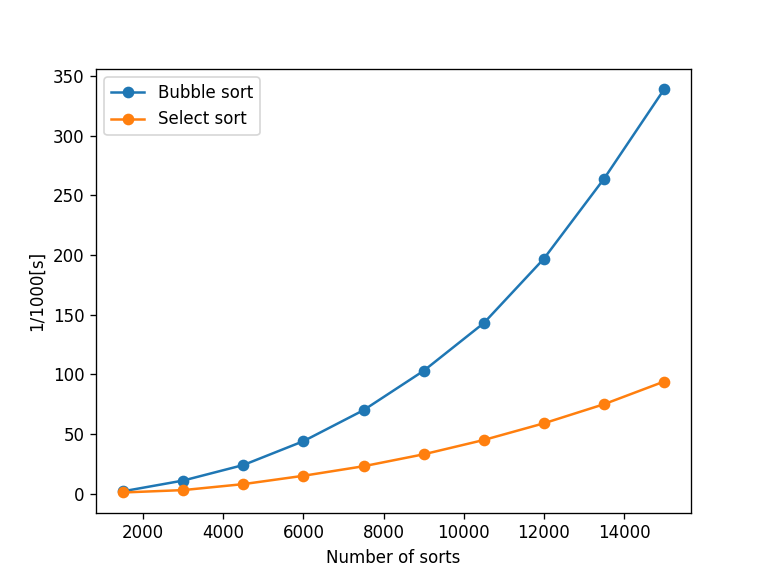
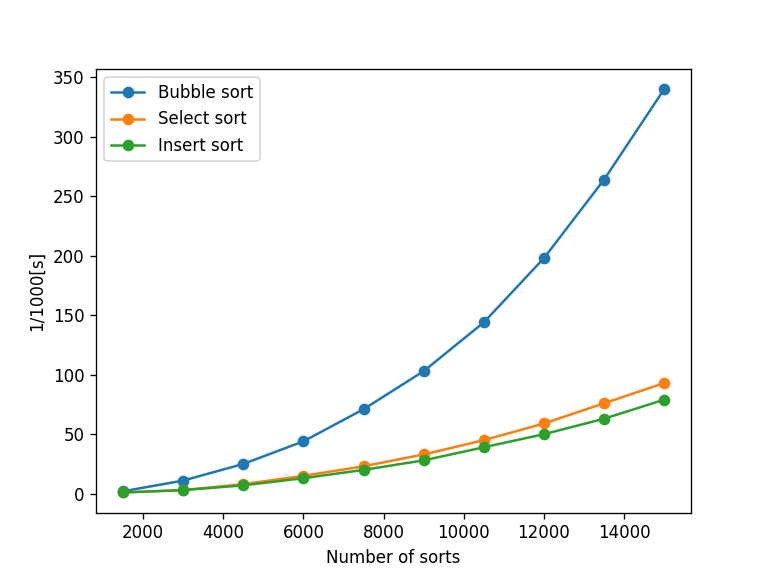
update all

diff --git a/09/4-5insert.c b/09/4-5insert.c
@@ -19,12 +19,12 @@ int main(void){
     /*--- 宣言 ---*/
     int* data;
     int size = SIZE;
-    int i, j, tmp, seed, min, k;
-    unsigned long int average;
+    int i, j, tmp, seed;
+    unsigned long int result[10][10];
 
     /*--- CSV ---*/
     FILE *fp;
-    fp = fopen("./s_result.csv", "w");
+    fp = fopen("./i_result.csv", "w");
     if(fp == NULL) {
         printf( "File open ERROR Deesu" );
         return -1;
@@ -51,25 +51,26 @@ int main(void){
 
             start = clock(); /* 処理前の時間を取得 */
 
-            /* select sort */
-            for(i=0; i < (size-1); i++) {
-                min = data[i];
-                k = i;
-                for(j = (i+1); j < size; j++) {
-                    if(min > data[j]) {
-                        min = data[j];
-                        k = j;
+            /* insert sort */
+            for( i = 1; i < size; i++ ) {
+                tmp = data[i];
+
+                for( j = (i-1); j >= 0; j-- ) {
+
+                    if( data[j] > tmp ) {
+                        data[j+1] = data[j];
+                    }else{
+                        break;
                     }
                 }
-                tmp = data[i];
-                data[i] = data[k];
-                data[k] = tmp;
+
+                data[j+1] = tmp;
             }
 
             end = clock(); /* 処理後の時間を取得 */
             elapsed = end - start; /* 実行時間算出 */
             printf("ELAPSED TIME %d: %lu\n", (loop+1), elapsed);
-            
+
             result[loop][all] = elapsed;
             free(data); /*--- 配列けす ---*/
         }
@@ -79,10 +80,9 @@ int main(void){
         if(all < 10) {
             fprintf(fp, ",");
         }
-
         size += SIZE;
     }
-    
+
     /*--- Push to CSV ---*/
     for(int i = 0; i < 10; i++) {
         fprintf(fp, "\n%d,",(i+1));
@@ -93,7 +93,6 @@ int main(void){
             }
         }
     }
-
     fclose(fp);
     return 0; 
 }

diff --git a/09/graph.py b/09/graph.py
@@ -7,9 +7,11 @@ fig = plt.figure(dpi=120)
 # open file #
 bubble = pd.read_csv('b_result.csv', encoding = 'UTF-8')
 select = pd.read_csv('s_result.csv', encoding = 'UTF-8')
+insert = pd.read_csv('I_result.csv', encoding = 'UTF-8')
 
 print(bubble)
 print(select)
+print(insert)
 
 # col select #
 column1_bubble = bubble[bubble.keys()[0]]
@@ -17,6 +19,9 @@ column2_bubble = bubble[bubble.keys()[1]]
 
 column1_select = select[select.keys()[0]]
 column2_select = select[select.keys()[1]]
+
+column1_insert = insert[insert.keys()[0]]
+column2_insert = insert[insert.keys()[1]]
 
 
 # LAVEL #
@@ -26,8 +31,9 @@ plt.ylabel(bubble.keys()[1])
 # Plot #
 plt.plot(column1_bubble, column2_bubble, linestyle='solid', marker='o')
 plt.plot(column1_select, column2_select, linestyle='solid', marker='o')
+plt.plot(column1_insert, column2_insert, linestyle='solid', marker='o')
 
 # Han rei #
-plt.legend(["Bubble sort", "Select sort"])
+plt.legend(["Bubble sort", "Select sort", "Insert sort"])
 
 fig.savefig("img.png")
